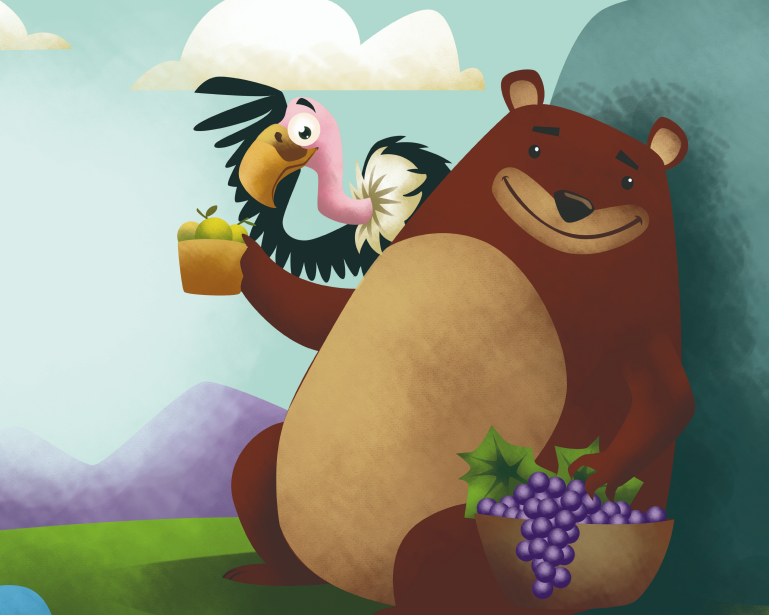
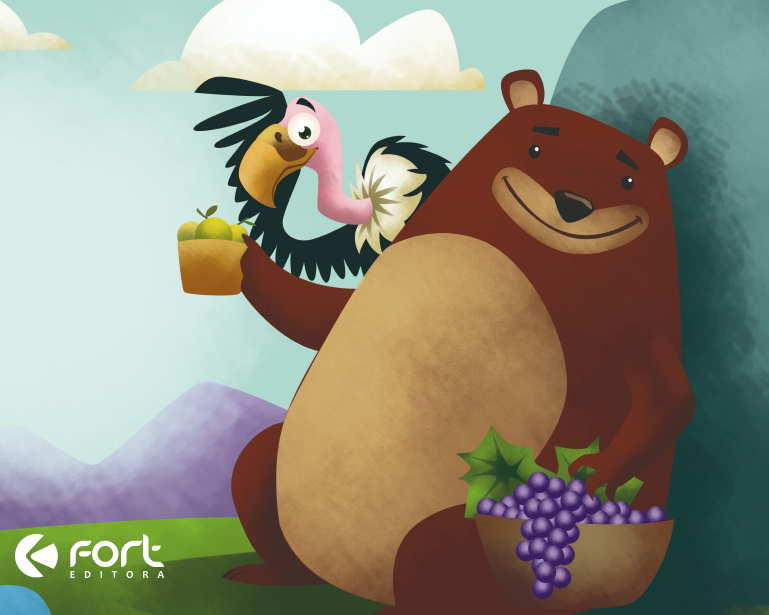
rev_06

Changed region(s): [[0.0, 0.865, 0.2185, 0.9577]]

diff --git a/ciranda/js.ciranda/music-list.js b/ciranda/js.ciranda/music-list.js
@@ -13,7 +13,7 @@ let allMusic = [
   },
   {
     name: "03 - B (A BARATA)",
-    artist: "Teste",
+    artist: "FortEditora",
     img: "music-3",
     src: "music-3",
   },
